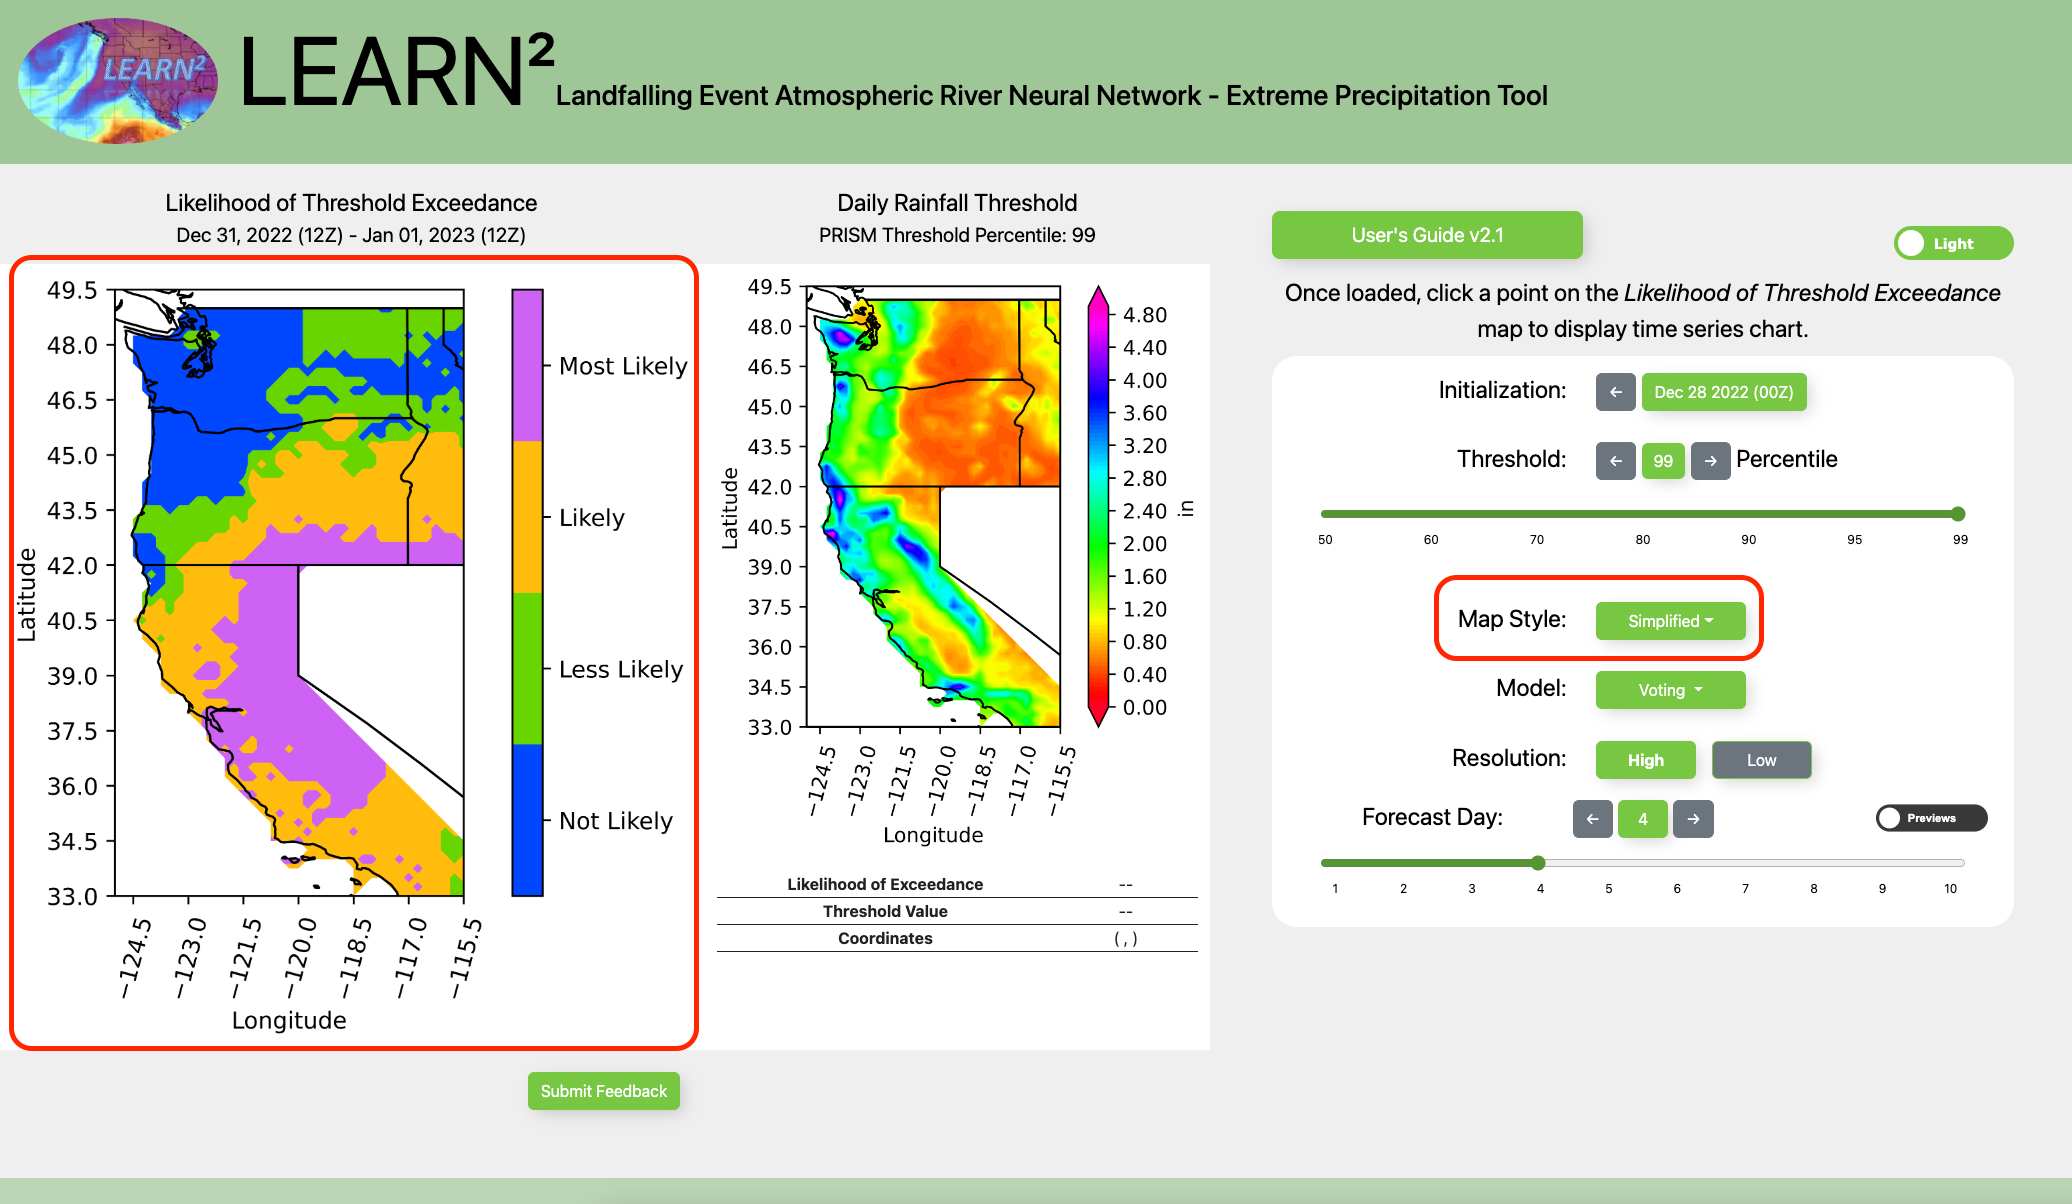
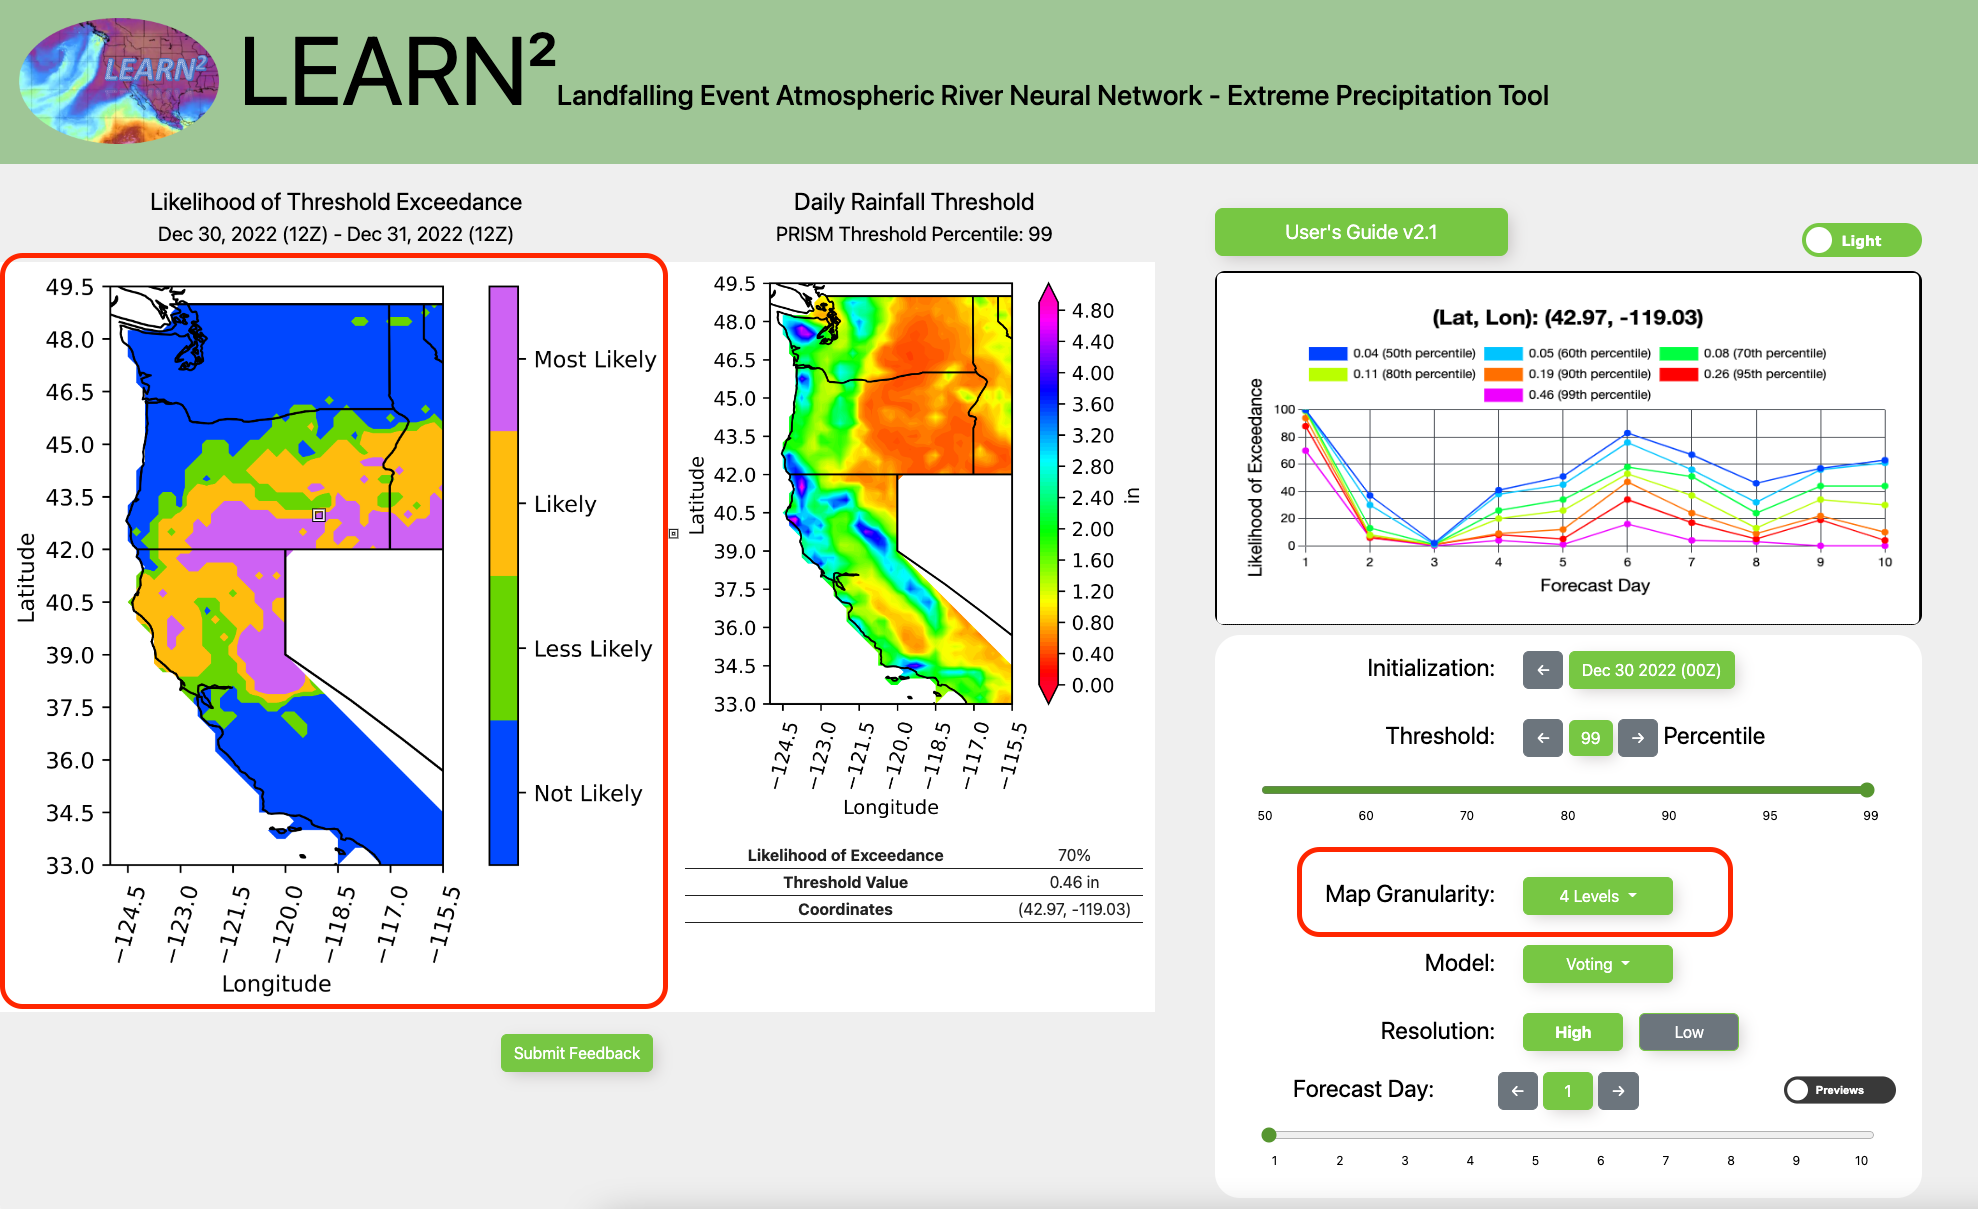
edits to versions section of users guide

diff --git a/public/user_guide.html b/public/user_guide.html
@@ -172,7 +172,7 @@
           <div class="showSingle content-links" target="6"><em>vi. </em>Control Panel</div>
           <div class="showSingle content-links" target="7"><em>vii. </em>Forecast day panel</div>
           <div class="showSingle content-links" target="8"><em>viii. </em>Cursor utilization</div>
-          <div class="showSingle content-links" target="9"><em>vix. </em>Map Style</div>
+          <div class="showSingle content-links" target="9"><em>vix. </em>Map Granularity</div>
           </div>
            
        </div>
@@ -310,49 +310,74 @@
 
                     </div>
                     <div id="GI-9" class="targetDiv">
-                        <h2>Map Style</h2>
+                        <h2>Map Granularity</h2>
                         <hr>
                         <div class="gui-img">
                         <img src="/resources/button-99.png" alt='map_style_image' width="100%">
                         </div>
-                        <p>Map style can be changed to a more simplified version, with only 4 colors. This toggle will only exist for the 99th percentile.</p>
+                        <p>Map style can be changed to a more simplified version, with only 4 categories. This toggle will only exist for the 99th percentile.</p>
             </div>
       </section>
             <br>
             <br>
             <h2 id="versions">Versions</h2>
             <hr>
+            <h3><b style="color:#e0f42b">Version 1.0</b></h3>
             <p>
-                Version 1.0: Version 1.0 was our operational model through 22 December 2022. It included six
-                threshold exceedance levels: the 50 th , 60 th , 70 th , 80 th , 90 th and 95 th percentiles. Because operational
+                Version 1.0 was our operational model through 22 December 2022. It included six
+                threshold exceedance levels: the 50th, 60th, 70th, 80th, 90th and 95th percentiles. Because operational
                 meteorologists’ and hydrologists’ interest focused on the most extreme events, this version is now being
-                replaced by Version 2.1, which now adds an additional 99 th percentile category.
+                replaced by Version 2.1, which now adds an additional 99th percentile category.
                 Version 2.0 (internal only): This internal version implemented an additional extreme rainfall exceedance
-                category (99 th percentile), and was used for development and testing. A limitation of this version is that
+                category (99th percentile), and was used for development and testing.</p>
+                <p> A limitation of this version is that
                 events of this intensity are rare (by definition), and, as a result, the training dataset is significantly
-                unbalanced—with far fewer days and grid points exceeding the 99 th percentile than those below it.
+                unbalanced—with far fewer days and grid points exceeding the 99th percentile than those below it.
                 While some skill is evident (see 27 March 2005 example below as compared to the PRISM verification),
                 this imbalance causes the neural networks to be overly conservative in most cases.
             </p>
             <img class="img-fluid" src="resources/versioning_images_1.png" alt="versioning_image_1">
+            <br>
+            <br>
+            <h3><b style="color:#e0f42b">Version 2.1</b></h3>
             <p>
-                Version 2.1: Version 2.1 (now the operational version) improves on Version 2.0 using data augmentation
-                in the training set. By replicating days when 99 th percentile rain events were observed, we can increase
-                the occurrence of the extreme events in the training dataset substantially—to reach approximately 10%
-                of the dataset. This resulted in substantially better training metrics over the initial internal version. This
-                operational version uses networks trained on the augmented dataset for the 99 th percentile category.
-                This version became the operational version on 23 December 2022, with the first 99 th percentile results
-                displayed at that time.
+                Version 2.1 (the previous operational version) improved on Version 2.0 using data augmentation in the
+                training set. By replicating days when 99th percentile rain events were observed, we can increase the occurrence of 
+                the extreme events in the training dataset substantially — to reach approximately 10% of the dataset. This resulted in 
+                substantially better training metrics over the initial internal version. This operational version uses networks
+                trained on the augmented dataset for the 99th percentile category. This version became the operational version on 23
+                December 2022, with the first 99th percentile results displayed at that time.
             </p>
             <img class="img-fluid" src="resources/versioning_images_2.png" alt="versioning_image_2">
-            <p>
-                Version 2.2: Under development and test, this version will provide users who are interested in the
-                most extreme (99 th percentile) events with two mapping alternatives—the same look and feel of Version
-                2.1, with the option to alternatively select a 4-category system that focuses attention only on the most
-                likely areas of exceedance at that level (as exemplified below).Implementation is anticipated prior to 31
-                December 2022.
+            <br>
+            <br>
+            <h3><b style="color:#e0f42b">Version 2.2</b></h3>
+            <p> Version 2.2 (now the operational version) now provides users who are interested in the most 
+                extreme (99 th percentile) events with two mapping granularities—the same look and feel of Version 2.1, 
+                with the option to alternatively select a 4-category system (99th percentile only) that focuses attention 
+                towards the most likely areas of exceedance at that level (as exemplified below). Setting the thresholds for the 
+                four categories, or levels, is a balancing act — seeking to minimize the number of false positives, while aspiring to 
+                retain the largest number of true positives. </p>
+                
+                <p>There is no single perfect number for any of the three category 
+                boundaries: Not Likely / Less Likely; Less Likely to Likely; and Likely to Most Likely. While the ratio of true 
+                to false positives rises rapidly as a function of the Less Likely to Likely threshold, it runs the risk of dropping
+                 too many true positives. Yet, it is critical to limit the number of false positives to ensure the tool is operationally useful. 
+                 That said, any dropped Most Likely true positives will still end up in the Likely category. For that reason, we settled on the 
+                 following limits (subject to change in the future if warranted): Not Likely, 0.0 to 0.1; Less Likely, 0.1 to 0.2; Likely, 0.2 to 0.4; and Most Likely,
+                  0.4 and up. In the region of 0.4, the ratio of true to false positives has improved to approximately unity for the Vote model. Any higher and too many
+                   true positives (verified 99th percentile grid points) are dropped for little loss of residual false positives.
             </p>
-            <img class="img-fluid" src="resources/versioning_images_3.png" alt="versioning_image_3">
+            <img class="img-fluid" src="resources/v2-2.png" alt="versioning_image_3">
+            <br>
+            <br>
+            <h3><b style="color:#e0f42b">Version 3.0</b></h3>
+            <p>Version 3.0 is under currently development. It seeks to optimize weighting of the four models 
+                (NCEP GEFS, ECMWF EPS, convolutional neural network, and densely connected neural network) using a scheme that 
+                balances the model contributions (confidence-weighted votes) against the skill that they add—as a function of
+                 prediction day (1-10) and threshold (50% to 99%) percentile. We are seeing some modest additional skill, 
+                 especially at the highest rainfall categories and in the near-term predictions (Days 1-3). Implementation 
+                 is anticipated prior to 31 January 2022.</p>
 
             <br>
             <br>

diff --git a/public/css/style.css b/public/css/style.css
@@ -235,7 +235,7 @@ body {
 .gui-section{
     display: flex;
 }
-.gui-info-left, .gui-section-right {
+.gui-info-left, .gui-info-right {
     display: flex;
     flex-direction: column;
     width: 50%;
